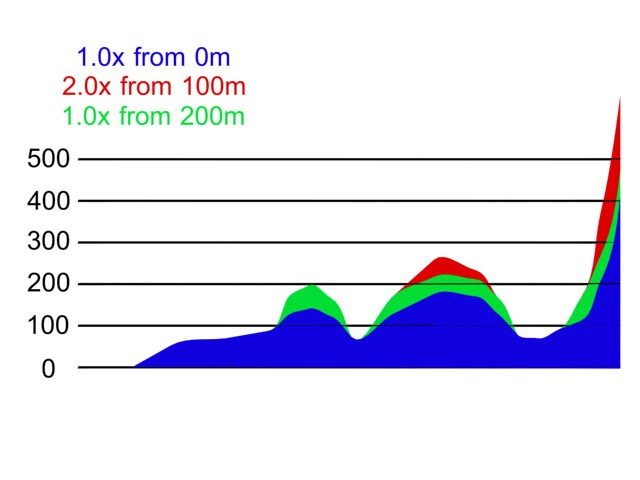
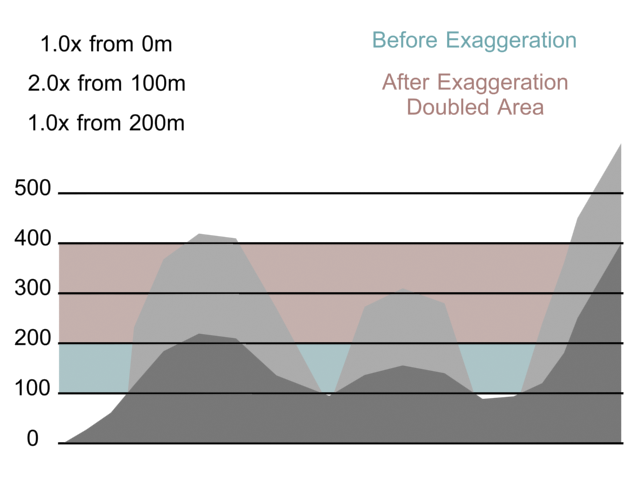
20110315 Updated elevation diagram with corrections.
git-svn-id: svn://localhost/Software/Java/WorldWind@1662 4cd5884b-1955-4949-bbec-e4dd67779ed6

diff --git a/Applications/Animator/documentation/user/manual.html b/Applications/Animator/documentation/user/manual.html
@@ -145,9 +145,9 @@
 
 <p>The DEM files that are recognised by the animator are part of the XML layer file specification. In the animation menu there is an <em>Add elevation model...</em> option. Once a file has been loaded into the animator, the model will be listed in the Animation Browser and the terrain will be updated.</p>
 
-<p>In order to increase or decrease the vertical scale, an exaggeration Parameters may be added to the elevation object. They can be added with the <em>Animation &rarr; Add elevation exaggerator...</em> A new dialog will pop up and ask for a Boundary and an Exaggeration; A Boundary is the height at which the Exaggeration Parameter will be applied, and the exaggeration is the amount of exaggeration to apply, where 1.0 is normal, 0.0 is flat and 2.0 is double.</p>
+<p>In order to increase or decrease the vertical scale, an <em>Exaggeration Parameters</em> may be added to the elevation object. They can be added with the <em>Animation &rarr; Add elevation exaggerator...</em> A new dialog will pop up and ask for a Boundary and an Exaggeration; A Boundary is the height at which the Exaggeration Parameter will be applied, and the exaggeration is the amount of exaggeration to apply, where 1.0 is normal, 0.0 is flat and 2.0 is double.</p>
 
-<p>The Exaggerator Parameter will be applied to all the DEMs and multiple Exaggerators can be used. If an exaggerator states that from 100.00m, the terrain will be exaggerated by 2.0, all the terrain points that are above 100.00m above sea level will have their position doubled. If there is then another exaggerator that states that from 200.00m, all the terrain will be exaggerated by 1.0, all terrain points above 200.00m will be set back to their regular scale. This allows exaggeration ranges to be set.</p>
+<p>Multiple Exaggerators can be applied to the Elevation Object . An exaggerator applies it's amount of exaggeration to the terrain points from it's boundary. If an exaggerator states that from 100.00m, the terrain will be exaggerated by 2.0, all the terrain points that are above 100.00m above sea level will have their position doubled. However, Exaggerators always work from the original value, so if there is then another exaggerator that states that from 200.00m, all the terrain will be exaggerated by 1.0, all terrain points that were originally above 200.00m will be set back to their regular scale. This means that the exaggerated terrain will look the way it did, but it will be raised 200.00m, by the first exaggerator.</p>
 
 <img src="images/elevdiag.png">
 
